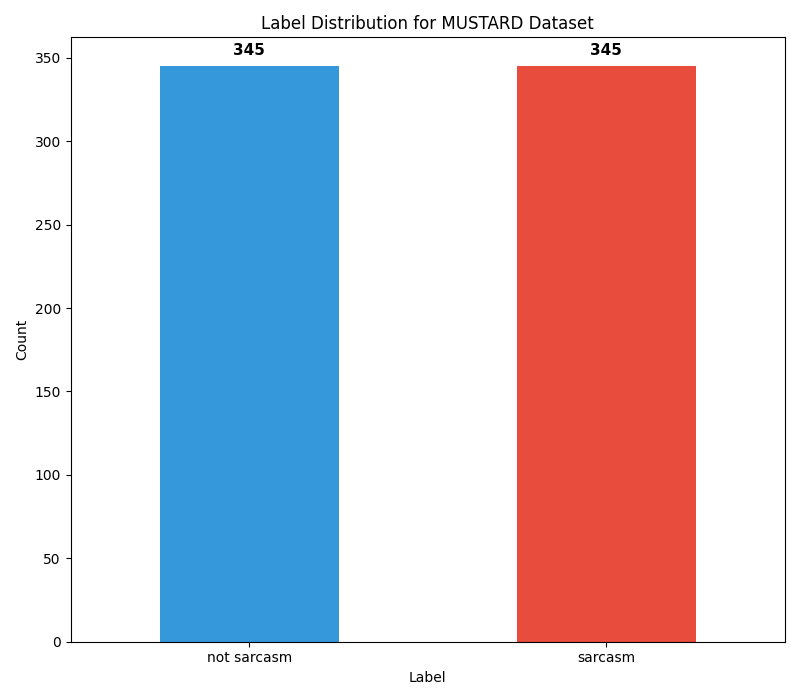
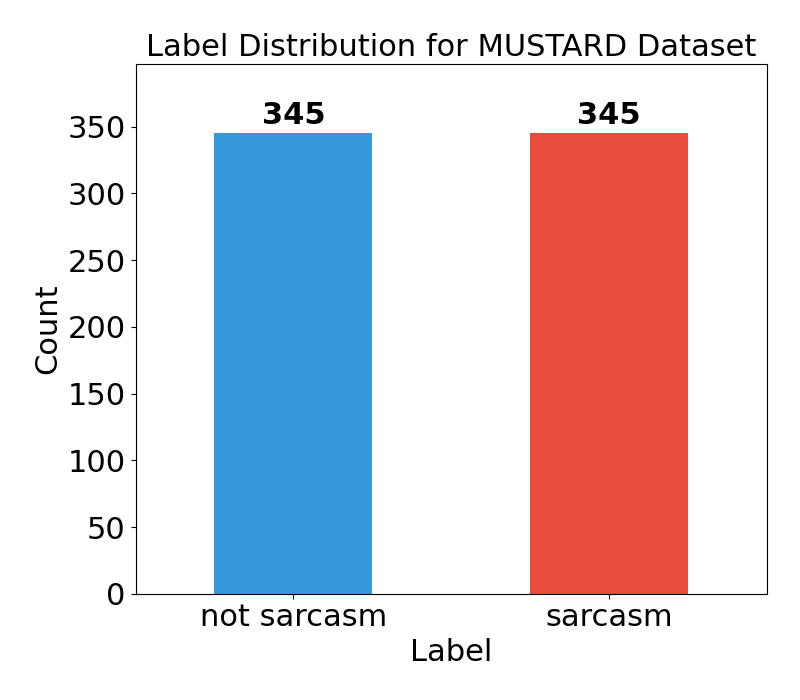
feat: bigger font generate image

diff --git a/evaluation_system/dataset.py b/evaluation_system/dataset.py
@@ -216,6 +216,16 @@ def load_twitter_indonesian_dataset_for_evaluation(folder_path: str = 'twitter_w
 def generate_plot():
     os.makedirs(SAVE_PLOT_FOLDER, exist_ok=True)
 
+    # 🔹 Set all font sizes globally
+    plt.rcParams.update({
+        'font.size': 22,  # default font size for all text
+        'axes.titlesize': 22,  # title size
+        'axes.labelsize': 22,  # x/y label size
+        'xtick.labelsize': 22,  # x-axis tick labels
+        'ytick.labelsize': 22,  # y-axis tick labels
+        'legend.fontsize': 22,  # legend text
+    })
+
     datasets = {
         'semeval': load_semeval_dataset(),
         'mustard': load_mustard_dataset(),
@@ -240,10 +250,12 @@ def generate_plot():
         plt.xlabel("Label")
         plt.ylabel("Count")
         plt.xticks(rotation=0)
+        plt.ylim(0, max(label_counts) * 1.15)
 
         # Add count labels on top of each bar
         for i, count in enumerate(label_counts):
-            ax.text(i, count + max(label_counts) * 0.02, str(count), ha='center', fontsize=11, fontweight='bold')
+            ax.text(i, count + max(label_counts) * 0.02, str(count),
+                    ha='center', fontsize=22, fontweight='bold')
 
         plt.tight_layout()
 
